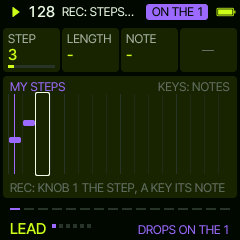
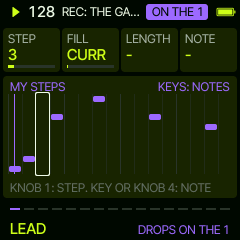
Sardine 0.8.18: the keys change a pattern only in EDIT (drums too: the 16 lowest keys its steps there, no REC); elsewhere they play; REC on a layer opens its EDIT (on GATE: the gate's steps)
Claude-Session: https://claude.ai/code/session_01VgesZgNNDFiPGvKyDTZVUK

diff --git a/firmware/src/sa_ui.c b/firmware/src/sa_ui.c
@@ -237,7 +237,7 @@ static const char *sv_page_name(int pg)
 /* REC on a synth layer, off GATE: the steps take the cards and the panel */
 static bool sv_steps_on(const sa_ui *u)
 {
-    return sv_synth_view(u) && (u->page == SV_PG_EDIT || (u->rec && sv_page_now(u) != SVP_GATE));
+    return sv_synth_view(u) && u->page == SV_PG_EDIT;   /* (the keys change a pattern only in EDIT) */
 }
 
 /* the patterns ALGORITHM turns through on a layer: OFF, then its own kind (and, on LEAD, the bass lines too) */
@@ -601,7 +601,7 @@ static void sv_head_title(const sa_ui *u, char *t, unsigned n)
     case SV_PG_MIXER: sv_cpy(t, u->mixmute == 5 ? "SONG" : u->mixmute == 4 ? "LIVE" : u->mixmute == 3 ? "STYLE" : u->mixmute == 2 ? "MIXER  SOLO" : u->mixmute ? "MIXER  MUTE" : "MIXER", n); break;
     case SV_PG_EDIT:
         sv_cpy(t, SV_VIEW_NAME[u->view], n);
-        sv_cat(t, u->rec ? "  EDIT  REC" : "  EDIT", n);
+        sv_cat(t, "  EDIT", n);
         break;
     case SV_PG_MENU: sv_cpy(t, u->menu2 ? "MIDI OUT" : "MENU", n); break;
     default:
@@ -673,14 +673,14 @@ static void sv_draw_foot(sa_ui *u)
     } else if (sa_pending(g)) {
         sv_cpy(r, g->drop_armed ? "DROPS ON THE 1" : "SEQ: DROP", sizeof r);
     } else if (u->rec) {
-        sv_cpy(r, "KEYS: STEPS", sizeof r);
+        sv_cpy(r, "KEYS: THE GATE", sizeof r);
     } else if (u->page == SV_PG_LAYER) {
         sv_cpy(r, "FX: ", sizeof r);
         sv_cat(r, sv_page_name(pg[(sv_clampi(u->fx, 0, np - 1) + 1) % np]), sizeof r);
     } else if (u->page == SV_PG_MAIN) {
         sv_cpy(r, u->home2 ? "FX: FILTER" : "FX: RESO", sizeof r);
     } else if (u->page == SV_PG_EDIT) {
-        sv_cpy(r, u->rec ? "KEYS: WRITE" : "REC: WRITE", sizeof r);
+        sv_cpy(r, "KEYS: WRITE", sizeof r);
     } else if (u->page == SV_PG_MIXER) {
         sv_cpy(r, u->mixmute == 5 ? "GLO: BACK" : u->mixmute == 4 ? (u->g->set_next ? "IN ON THE 1" : u->g->playing && sa_build_peek(u->g) >= 0 ? "SEQ: NEXT IN" : "SEQ: SET IT UP") : u->mixmute == 3 ? (u->g->set_next ? "IN ON THE 1" : "SEQ: A NEW GROOVE") : u->mixmute == 2 ? "GLO: STYLE" :
                   u->mixmute ? "GLO: SOLO" : "GLO: MUTE", sizeof r);
@@ -1430,7 +1430,7 @@ static void sv_panel_edit_drum(sa_ui *u)
         cv_rrect(x, 36, 12, 44, 3, c, T_SURF);
         if (k % 4 == 0) cv_rect(x, 86, 12, 2, T_DIM);
     }
-    sv_label(10, 98, u->rec ? "KEYS: THE 16 LOWEST ARE THE STEPS" : "REC: THE STEPS ON THE KEYS", u->rec ? T_ACCENT : T_DIM);
+    sv_label(10, 98, "KEYS: THE 16 LOWEST ARE THE STEPS", T_ACCENT);
 }
 
 static void sv_draw_panel(sa_ui *u)
@@ -2055,11 +2055,15 @@ void sv_button(sa_ui *u, int b, bool down)
             u->req_slot = u->set_slot;
             break;
         }
-        if (sv_on_layer(u) && u->layer >= 0) {
+        if (u->page == SV_PG_LAYER && u->layer >= 0 && sv_page_now(u) == SVP_GATE) {   /* GATE: its steps on the keys */
             u->rec = !u->rec;
-            if (u->page == SV_PG_LAYER) u->scur = 0;   /* (EDIT: the cursor stays where KNOB 1 put it) */
             u->force = true;
-            sv_msg(u, u->rec ? "REC: STEPS ON THE KEYS" : "REC OFF: THE KEYS PLAY");
+            sv_msg(u, u->rec ? "REC: THE GATE ON THE KEYS" : "REC OFF: THE KEYS PLAY");
+        } else if (u->page == SV_PG_LAYER && u->layer >= 0) {
+            sv_button(u, SV_B_EDIT, true);         /* (elsewhere on a layer: its editor, where the keys write; */
+            sv_button(u, SV_B_EDIT, false);        /* EDIT acts on its release, a tap) */
+        } else if (u->page == SV_PG_EDIT) {
+            sv_msg(u, "EDIT: THE KEYS WRITE");
         }
         break;
     case SV_B_EDIT:                                /* a layer's pattern editor, again: back to its page */
@@ -2138,8 +2142,8 @@ void sv_key(sa_ui *u, int note, bool down)
         return;
     int k = note - SV_KEY_LO;
     bool lay = sv_on_layer(u) && u->layer >= 0;
-    if (lay && u->rec && u->page == SV_PG_EDIT && u->view == SV_V_DRUMS && k < 16) {   /* EDIT, REC: the 16 lowest keys
-                                                                                       * are the steps (lit) */
+    if (lay && u->page == SV_PG_EDIT && u->view == SV_V_DRUMS && k < 16) {   /* EDIT: the 16 lowest keys are the steps
+                                                                              * (lit) */
         if (!down || u->g->ed[u->layer].type != SA_T_DRUM) return;
         int st = k;
         bool was = (sv_ed_bits(u, u->layer) >> st) & 1u;
@@ -2150,18 +2154,7 @@ void sv_key(sa_ui *u, int note, bool down)
         return;
     }
     int layer = lay ? u->layer : SA_L_LEAD;
-    if (lay && u->rec && u->page == SV_PG_LAYER) {
-        if (u->view == SV_V_DRUMS && k < 16) {     /* a drum's steps */
-            if (!down || u->g->ed[u->layer].type != SA_T_DRUM) return;
-            uint16_t was = sv_ed_bits(u, u->layer);
-            sa_step_drum(u->g, u->layer, k);
-            u->changed = true;
-            if (!((was >> k) & 1u) && !u->g->playing) {   /* (a hit put in, stopped: heard once) */
-                sa_key(u->g, k, note, true, u->layer);
-                sa_key(u->g, k, note, false, u->layer);
-            }
-            return;
-        }
+    if (lay && u->rec && u->page == SV_PG_LAYER) {   /* (outside EDIT the keys play; only GATE's REC sets its steps) */
         if (sv_page_now(u) == SVP_GATE && k < 16) {  /* the gate's steps */
             if (down) {
                 sa_gate_step(u->g, u->layer, k);
@@ -2170,8 +2163,8 @@ void sv_key(sa_ui *u, int note, bool down)
             return;
         }
     }
-    if (lay && (u->rec || u->page == SV_PG_EDIT) && sv_steps_on(u)) {
-        /* a synth layer's step (EDIT, or REC): the key's note there (CHORD: the chord), heard as it is pressed */
+    if (lay && sv_steps_on(u)) {
+        /* EDIT, a synth layer's step: the key's note there (CHORD: the chord), heard as it is pressed */
         if (down) {
             sa_step_note(u->g, u->layer, sv_clampi(u->scur, 0, 15), note + 12 * u->oct);
             u->scur = (u->scur + 1) % 16;
@@ -2214,7 +2207,8 @@ void sv_key(sa_ui *u, int note, bool down)
 bool sv_key_leds(const sa_ui *u, uint32_t *full, uint32_t *dim)
 {
     *full = *dim = 0;
-    if (!u->rec || !sv_on_layer(u) || u->layer < 0) return false;
+    if (!sv_on_layer(u) || u->layer < 0) return false;
+    if (u->page != SV_PG_EDIT && !(u->rec && sv_page_now(u) == SVP_GATE)) return false;   /* (EDIT; GATE's REC) */
     const sa_groove *g = u->g;
     int l = u->layer;
     if (u->view == SV_V_DRUMS) {

diff --git a/tests/sa_ui_test.c b/tests/sa_ui_test.c
@@ -249,8 +249,8 @@ int main(int argc, char **argv)
     CHECK(g.ed[SA_L_BASS].pat != pat && g.s.code[SA_L_BASS].pat == pat && sa_pending(&g) == 1, "ALGORITHM: waits");
     shot("05_bass_pending");
     press(SV_B_REC);
-    CHECK(ui.rec && sa_pending(&g) == 1, "REC is step recording, not a drop");
-    press(SV_B_REC);
+    CHECK(ui.page == SV_PG_EDIT && sa_pending(&g) == 1, "REC: the layer's EDIT (the keys write only there), not a drop");
+    press(SV_B_EDIT);
     press(SV_B_SEQ);
     CHECK(g.drop_armed, "SEQ: armed");
     bars(1);
@@ -367,7 +367,7 @@ int main(int argc, char **argv)
     CHECK(!ui.rec, "another layer: REC off");
     /* LEAD: OFF; REC writes its steps from the keys */
     press(SV_B_REC);
-    CHECK(ui.rec && sv_steps_on(&ui), "LEAD, REC: STEPS");
+    CHECK(ui.page == SV_PG_EDIT && sv_steps_on(&ui), "LEAD, REC: its EDIT, the keys its steps");
     sv_key(&ui, 69, true);
     sv_key(&ui, 69, false);
     sv_key(&ui, 72, true);
@@ -378,7 +378,7 @@ int main(int argc, char **argv)
     press(SV_B_SEQ);
     bars(2);
     CHECK(part_on[SA_L_LEAD] > 0, "LEAD plays its steps (%d)", part_on[SA_L_LEAD]);
-    press(SV_B_REC);
+    press(SV_B_EDIT);
     /* DRUMS: seven rows; KNOB 1 the row, KNOB 2 its INSTR (at once), the keys its steps under REC */
     sv_knob(&ui, SV_K_PRESETS, 4);
     CHECK(ui.view == SV_V_DRUMS && ui.layer == SA_L_DRUM0 + SA_DR_KICK, "DRUMS: the kick row");
@@ -408,15 +408,15 @@ int main(int argc, char **argv)
     sv_knob(&ui, SV_K2, -40);
     sv_knob(&ui, SV_K4, 10);
     CHECK(g.s.live[ui.layer].env == 70, "ACCENT");
-    press(SV_B_REC);
+    press(SV_B_EDIT);
     uint32_t fl, dl;
-    CHECK(sv_key_leds(&ui, &fl, &dl) && dl == 0xFFFFu, "REC: the step keys lit");
+    CHECK(sv_key_leds(&ui, &fl, &dl) && dl == 0xFFFFu, "EDIT: the step keys lit");
     sv_key(&ui, SV_KEY_LO + 5, true);
     sv_key(&ui, SV_KEY_LO + 5, false);
     CHECK(g.ed[ui.layer].own, "a drum step");
     shot("14_drums_rec");
     press(SV_B_SEQ);
-    press(SV_B_REC);
+    press(SV_B_EDIT);
     /* a row OFF: ALGORITHM gives it a pattern */
     sv_knob(&ui, SV_K1, 1);
     CHECK(ui.layer == SA_L_DRUM0 + SA_DR_TOMS && g.s.code[ui.layer].pat == SA_PAT_OFF, "TOMS: OFF");
@@ -493,10 +493,9 @@ int main(int argc, char **argv)
         sv_key(&ui, 62, false);
     }
     sv_knob(&ui, SV_K1, 5 - ui.scur);
-    press(SV_B_REC);
     sv_key(&ui, 60, true);
     sv_key(&ui, 60, false);
-    CHECK(ui.rec && g.ed[SA_L_BASS].own && g.ed[SA_L_BASS].sn[5] != SA_NO_NOTE && ui.scur == 6, "EDIT, REC: a note on step 6");
+    CHECK(g.ed[SA_L_BASS].own && g.ed[SA_L_BASS].sn[5] != SA_NO_NOTE && ui.scur == 6, "EDIT: a key, a note on step 6");
     sv_knob(&ui, SV_K2, 2);
     CHECK(!strcmp(sv_fill_name(&ui, ui.fill), "ARP UP") && g.ed[SA_L_BASS].sn[0] != SA_NO_NOTE &&
           g.ed[SA_L_BASS].sn[2] > g.ed[SA_L_BASS].sn[0], "FILL: ARP UP, a line up the scale");

diff --git a/firmware/src/sa_version.h b/firmware/src/sa_version.h
@@ -2,5 +2,5 @@
 /* Sardine's version: the splash, MENU, the package and the release (the workflow reads SA_VERSION here) */
 #ifndef SA_VERSION_H
 #define SA_VERSION_H
-#define SA_VERSION "0.8.17"
+#define SA_VERSION "0.8.18"
 #endif

diff --git a/docs/MANUAL.md b/docs/MANUAL.md
@@ -1,6 +1,6 @@
 # Sardine manual
 
-Sardine 0.8.17. Live club mixing on the FM-1: four layers, always there, each one on or OFF: **LEAD**, **CHORD**,
+Sardine 0.8.18. Live club mixing on the FM-1: four layers, always there, each one on or OFF: **LEAD**, **CHORD**,
 **BASS** and **DRUMS**. A layer is a sound and a pattern, bent by modifiers. Its sound, filter, pan and level act at
 once, as you turn; its pattern, steps and modifiers wait, in the second colour, until **SEQ** drops them in on the
 one: the next bar line.
@@ -18,7 +18,7 @@ into one of eight sets (SAVE, below).
 | SELECT | the tempo, everywhere |
 | ALGORITHM | the layer's pattern (OFF first); it waits for SEQ. On HOME: PART A or B |
 | SEQ | drops what waits, on the next bar line (stopped: at once); nothing waiting, a LIVE build: its next layer in |
-| REC | step recording on the layer, on and off; held: WOBBLE (below) |
+| REC | on a layer: its EDIT (on GATE: the gate's steps on the keys); held: WOBBLE (below) |
 | SCL | the key and the chords, again: back |
 | SAVE | the sets, again: back |
 | EDIT | the layer's pattern editor, again: back; held: TAPE STOP (below) |
@@ -137,12 +137,9 @@ so it is always in key, and swings with FEEL. GATE cuts a held chord to a rhythm
 <img src="screens/drums_rec.png" alt="Drum steps" width="200">
 </p>
 
-**REC** on a layer turns step recording on (REC lit), again off; another layer turns it off. On LEAD and BASS
-**KNOB 1** picks the step, **a key** writes its note there (snapped to the scale) and the cursor moves on, so a line
-goes in as fast as you play it; the same note again takes the step off. **KNOB 2** is the step's length. On CHORD a
-key puts the chord on the step or takes it off: it plays the chord of the bar. On the GATE page the 16 lowest keys
-are the gate's steps. The keys of the scale (or the step keys) glow dim, what is set full. The first edit makes the
-pattern the layer's own (MY STEPS); like a pattern, the steps wait for SEQ, and the modifiers still act on them.
+The keys change a pattern only in **EDIT** (below); everywhere else they play. **REC** on a layer opens its EDIT, and on
+the GATE page turns the gate's steps on the keys (the 16 lowest) on and off. The first edit makes the pattern the
+layer's own (MY STEPS); like a pattern, the steps wait for SEQ, and the modifiers still act on them.
 
 ## EDIT
 
@@ -163,10 +160,9 @@ on it moves it up or down the scale (on CHORD: right the chord on, left off).
 Setting a note, step by step: **EDIT**, KNOB 1 to the step, then a key (heard as you press it; the step moves on) or
 KNOB 4 to the note, KNOB 3 for how long.
 
-In EDIT (and with **REC** on, on the layer's pages too), LEAD, BASS and CHORD: a key writes at the framed step (the note snapped to the scale, the same note
+In EDIT, LEAD, BASS and CHORD: a key writes at the framed step (the note snapped to the scale, the same note
 again takes it off; on CHORD the chord) and the frame moves on. DRUMS: the 16 lowest keys are the steps, glowing dim,
-the hits set full; a key turns its step on or off, the keys above play the drum. Without REC the drum keys play the
-drum, lit with what it plays. Like a pattern, the steps wait for SEQ. EDIT again goes back.
+the hits set full; a key turns its step on or off, the keys above play the drum. Like a pattern, the steps wait for SEQ. EDIT again goes back.
 
 ## DRUMS
 

diff --git a/README.md b/README.md
@@ -42,7 +42,7 @@ second colour, until SEQ drops them in on the one.
 - The synth layers pump under the kick (PUMP), with REVERB, DELAY and WIDTH for the space they sit in
 - GATE cuts a held pad to a rhythm; PAN sweeps; 3D puts a layer in front, behind, above or flying around you (on headphones)
 - The keys play the layer you are on, lit with what it plays; on DRUMS they play the drum you picked
-- EDIT: a step editor with ready fills; REC writes steps from the keys
+- EDIT: a step editor with ready fills; there the keys write the steps
 
 **Every start a fresh groove** (other sounds, patterns, kit, key); eight sets keep the ones you want, LAST the last one.
 
@@ -59,7 +59,7 @@ second colour, until SEQ drops them in on the one.
 
 ## Install
 
-Version 0.8.17: [install it on the FM-1](https://delirioux.github.io/sardine/install/) from Chrome or Edge (Web MIDI), with
+Version 0.8.18: [install it on the FM-1](https://delirioux.github.io/sardine/install/) from Chrome or Edge (Web MIDI), with
 the FM-1 on USB, or [try it in the browser](https://delirioux.github.io/sardine/try/) first. The `dev` branch's test
 build: [install](https://delirioux.github.io/sardine/dev/install/), [try](https://delirioux.github.io/sardine/dev/try/).
 Installing firmware is at your own risk; Felucca's [installer](https://hugelton.github.io/Felucca/webapp/installer/)
@@ -83,7 +83,7 @@ puts Felucca itself back. Sardine reports itself as `FM-1_47727346`.
 | SELECT | the tempo |
 | ALGORITHM | the layer's pattern (waits for SEQ); on HOME: PART A or B |
 | SEQ | drops what waits, on the next bar line; in a LIVE build, the next layer |
-| REC / EDIT | step recording / the pattern editor |
+| EDIT (or REC) | the pattern editor: the only place the keys change a pattern |
 | SCL / SAVE | the key and the chords / the sets |
 | ENV / ARP / LFO | held: fill / BREAK / SWEEP |
 | OCT- / OCT+ / EDIT / REC | held: WASH / THROW / TAPE STOP / WOBBLE |

diff --git a/docs/RELEASE.md b/docs/RELEASE.md
@@ -1,4 +1,4 @@
-Sardine 0.8.17: live club mixing for the FM-1.
+Sardine 0.8.18: live club mixing for the FM-1.
 
 - Four layers, always there, each on or OFF: LEAD, CHORD, BASS and DRUMS. PRESETS goes from one to the next, FX
   through a layer's pages (MIX: VOLUME TYPE INSTR MUTE, ARP, PAN, 3D, PUMP, GATE, MOD; DRUMS: MIX, KIT, MOD), HOME back to them all

diff --git a/docs/ROADMAP.md b/docs/ROADMAP.md
@@ -1,6 +1,6 @@
 # The road to 1.0
 
-Sardine 0.8.17 has everything planned for 1.0. What is left is listening on the FM-1 and tuning what it shows.
+Sardine 0.8.18 has everything planned for 1.0. What is left is listening on the FM-1 and tuning what it shows.
 
 ## To check on the FM-1
 
